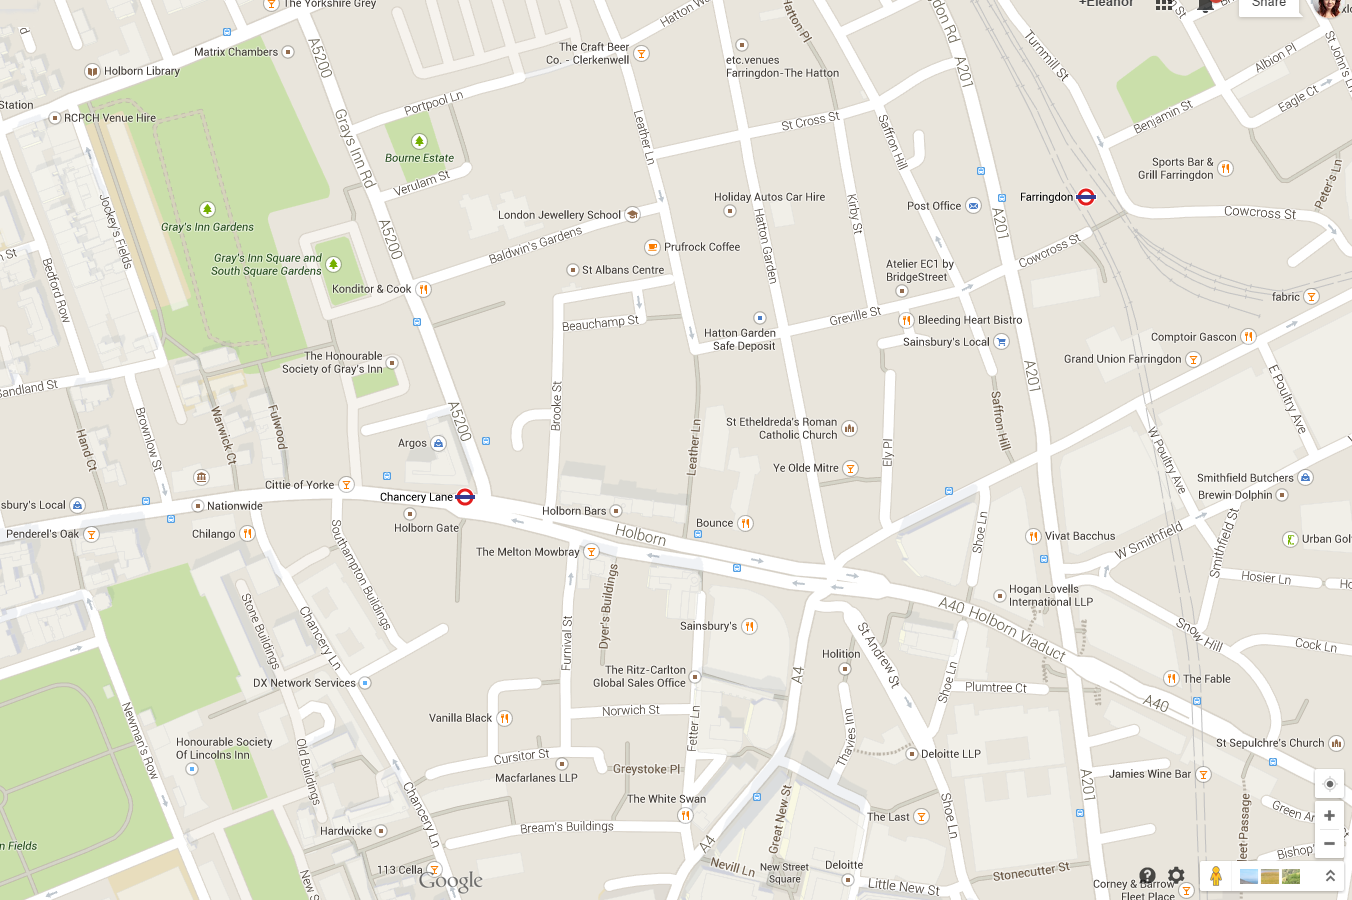
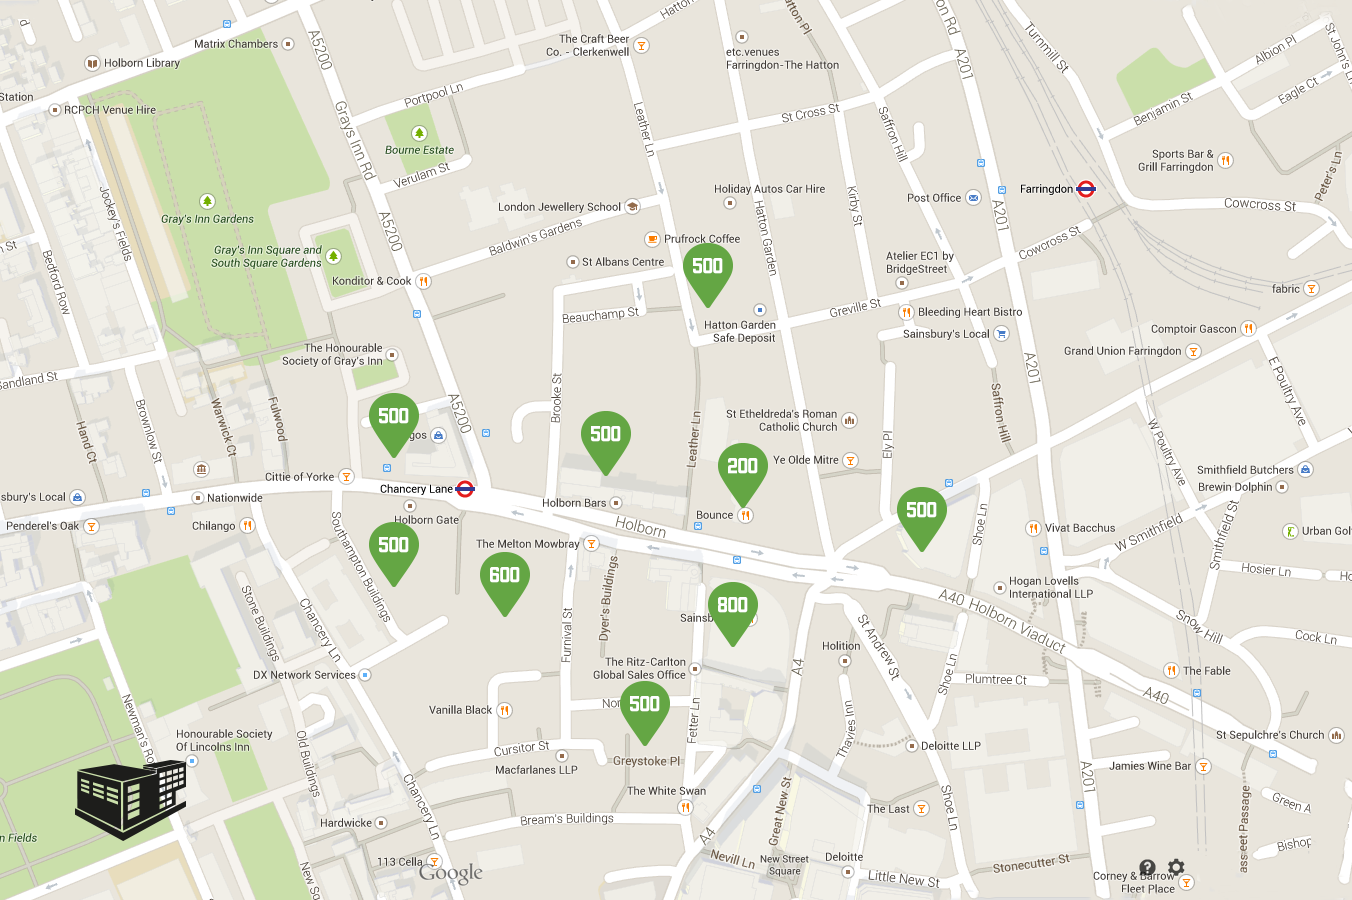
viable mvp

diff --git a/DisasterGame/Hubs/MoveShapeDemo.cs b/DisasterGame/Hubs/MoveShapeDemo.cs
@@ -35,12 +35,40 @@ namespace MoveShapeDemo
 
         static Broadcaster()
         {
-            for (int i = 1; i < 10; i++)
-            {
-                People.Add(new PersonModel { Id = i.ToString(), Left = i * 100, Top = i * 100, Visible = true });
-            }
+            
+            makeMeSomePeople(375, 443, 5);
+            makeMeSomePeople(380, 578, 5);
+            makeMeSomePeople(502, 612, 6); //People.Add(new PersonModel { Id = Guid.NewGuid().ToString(), Left = 502, Top = 612, Visible = true });
+            makeMeSomePeople(920, 548, 5);
+            makeMeSomePeople(608, 476, 5);
+            makeMeSomePeople(705, 316, 5);
+            //People.Add(new PersonModel { Id = Guid.NewGuid().ToString(), Left = 510, Top = 635, Visible = true });
+            //People.Add(new PersonModel { Id = Guid.NewGuid().ToString(), Left = 520, Top = 624, Visible = true });
+            //People.Add(new PersonModel { Id = Guid.NewGuid().ToString(), Left = 495, Top = 595, Visible = true });
+            //People.Add(new PersonModel { Id = Guid.NewGuid().ToString(), Left = 482, Top = 587, Visible = true });
+            //People.Add(new PersonModel { Id = Guid.NewGuid().ToString(), Left = 480, Top = 605, Visible = true });
+
         }
 
+        private static void makeMeSomePeople(int seedLeft, int seedTop, int people)
+        {
+
+            People.Add(new PersonModel { Id = Guid.NewGuid().ToString(), Left = seedLeft, Top = seedTop, Visible = true });
+            People.Add(new PersonModel { Id = Guid.NewGuid().ToString(), Left = seedLeft - 8, Top = seedTop - 23, Visible = true });
+            if (people > 2)
+            {
+                People.Add(new PersonModel { Id = Guid.NewGuid().ToString(), Left = seedLeft - 18, Top = seedTop - 12, Visible = true });
+                People.Add(new PersonModel { Id = Guid.NewGuid().ToString(), Left = seedLeft + 7, Top = seedTop - 17, Visible = true });
+                People.Add(new PersonModel { Id = Guid.NewGuid().ToString(), Left = seedLeft + 20, Top = seedTop - 25, Visible = true });
+            }
+            if (people > 5)
+            {
+                People.Add(new PersonModel { Id = Guid.NewGuid().ToString(), Left = seedLeft + 22, Top = seedTop + 7, Visible = true });
+
+            }
+
+        }
+        
         public Broadcaster()
         {
             started = DateTime.Now;
@@ -179,6 +207,8 @@ namespace MoveShapeDemo
         // We don't want the client to get the "LastUpdatedBy" property
         [JsonIgnore]
         public string LastUpdatedBy { get; set; }
+        [JsonProperty("full")]
+        public bool Full { get; set; }
     }
 
     public class PersonModel
